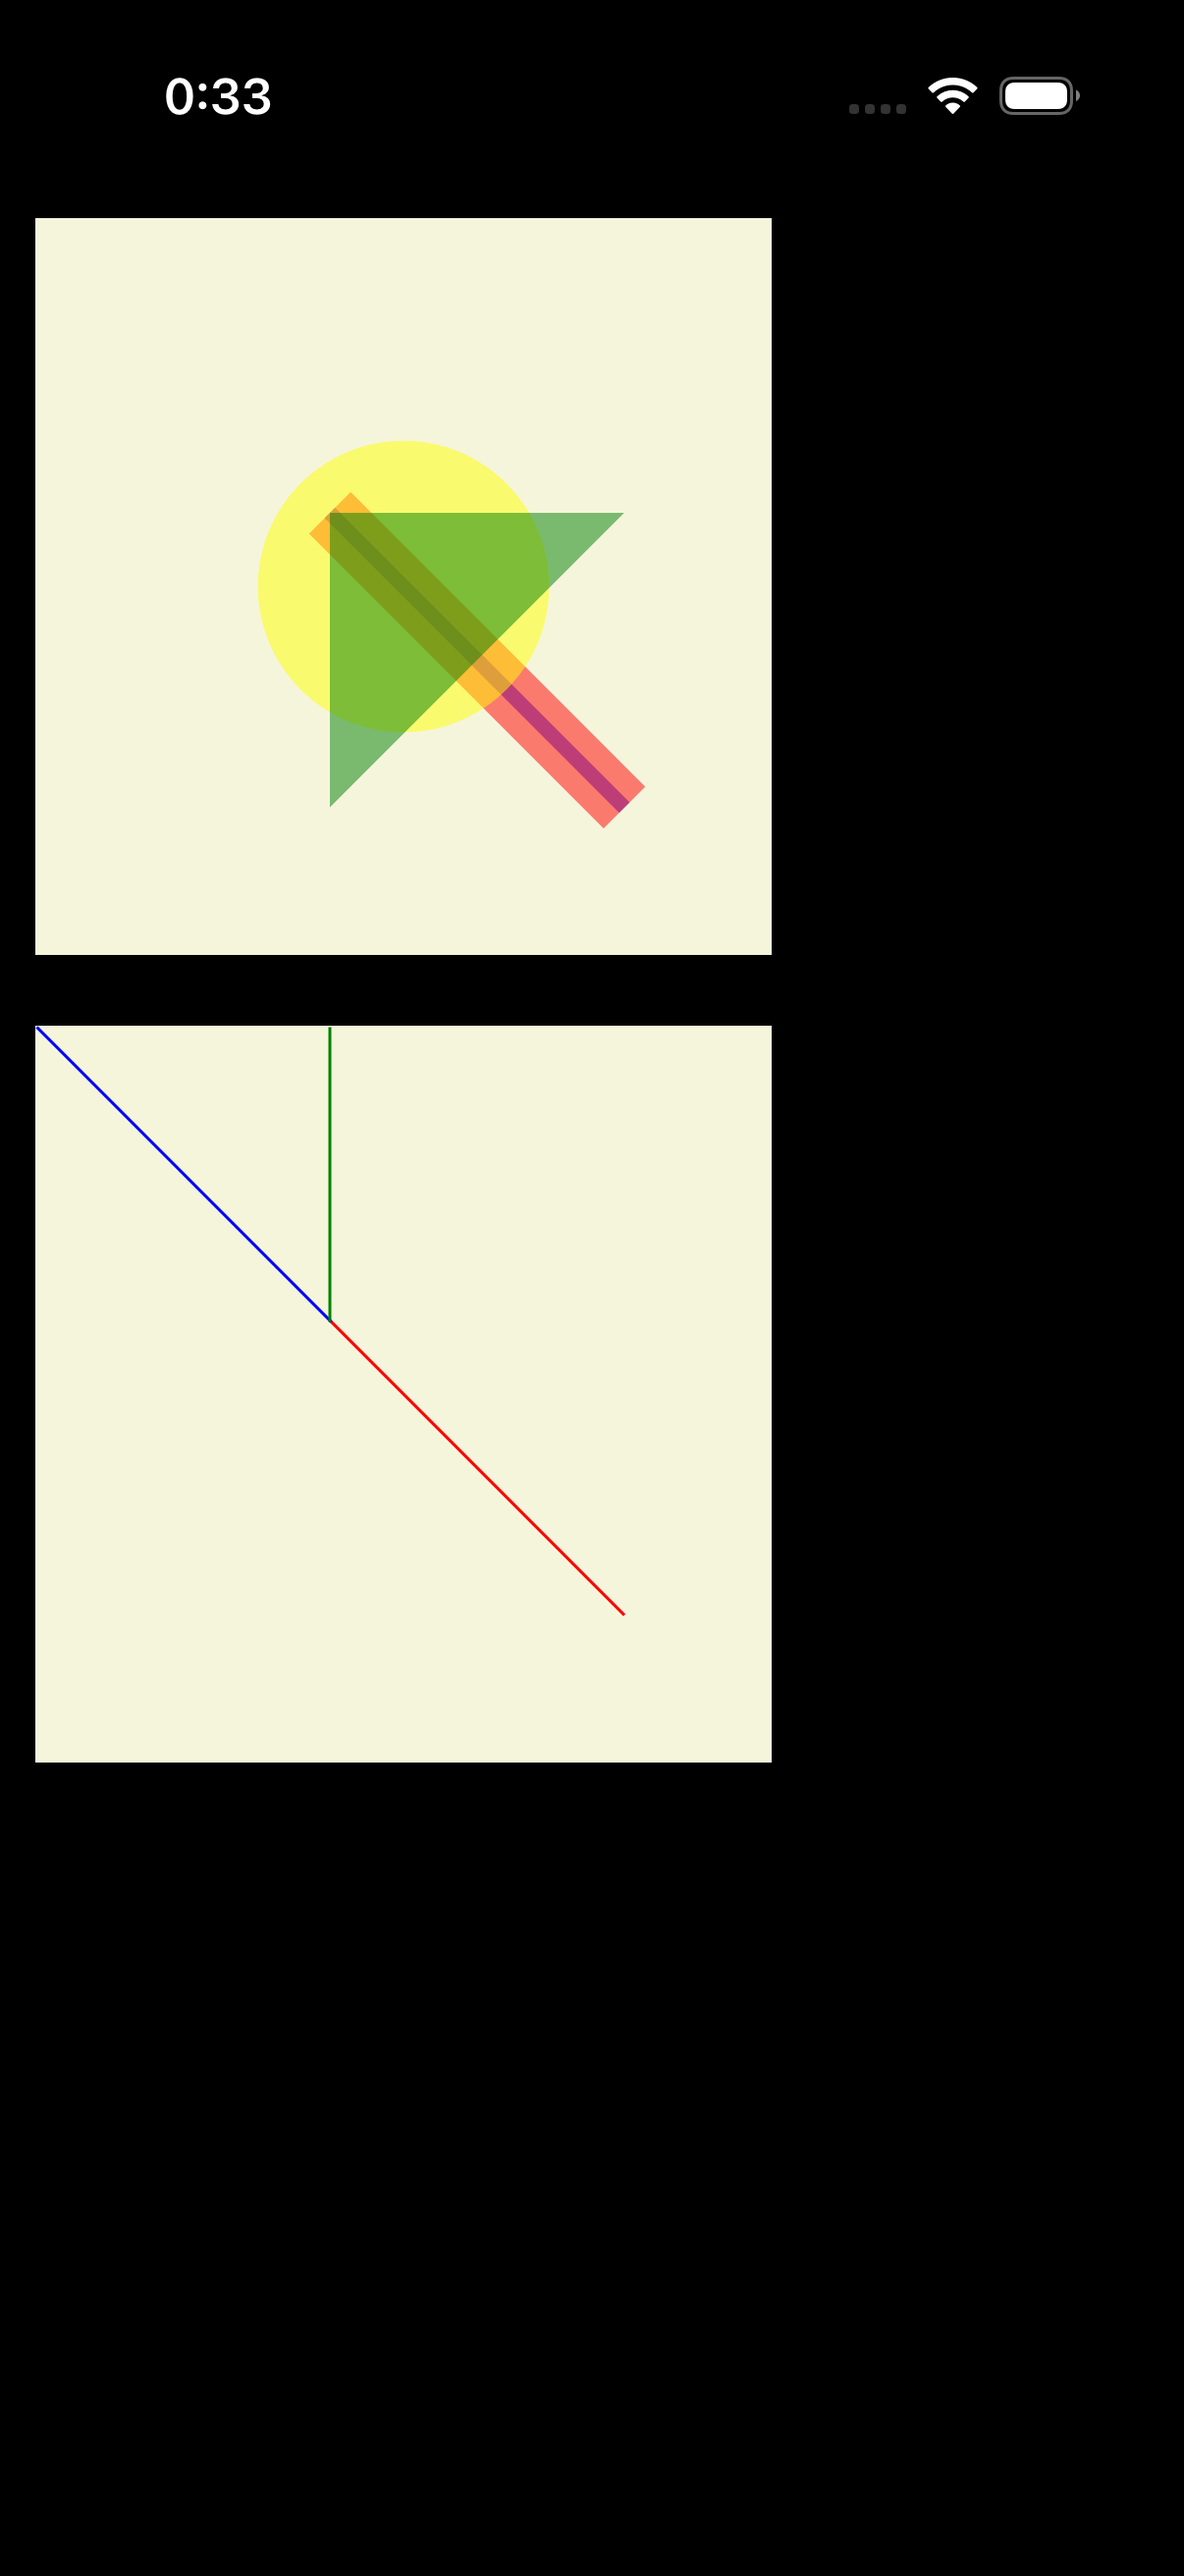
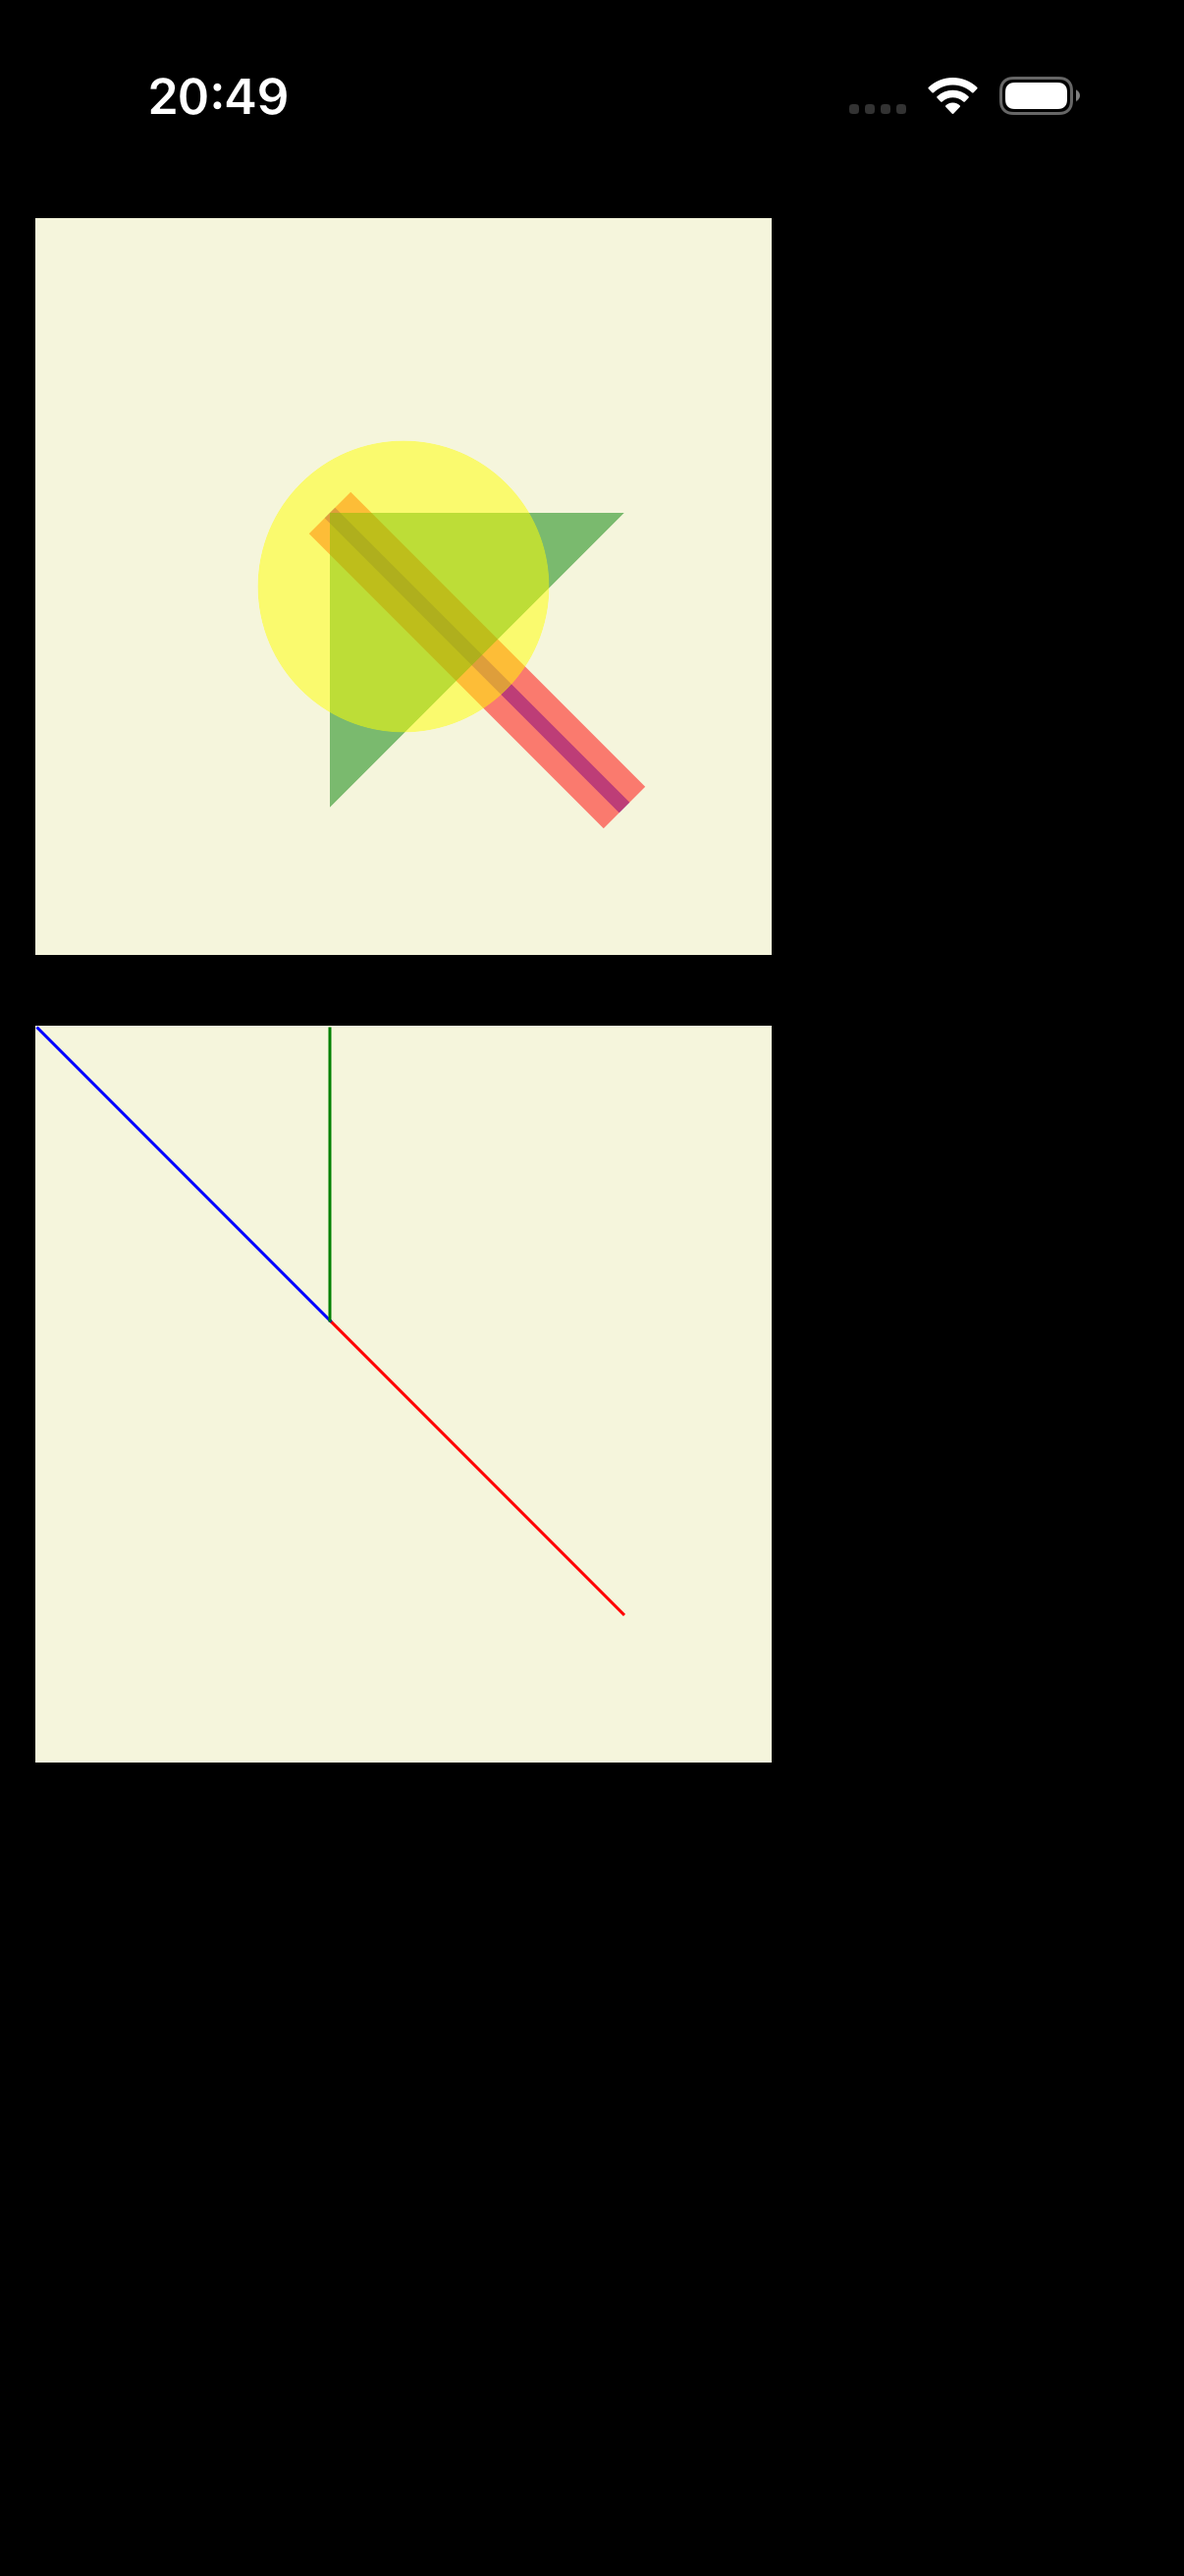
fix(composition_gallery): draw yellow circle ON TOP of green triangle (cpp yellow -> green)
The code-first page added the yellow Ellipse BEFORE the green Polygon, so the green triangle painted
on top of the yellow circle — but original MAUI's CompositionGallery.xaml draws the Polygon THEN the
yellow Path/EllipseGeometry (ellipse last = on top), which the shared XAML twin also does (xaml column
already green at 0.07%). With Opacity=0.5 the compositing is order-dependent, so the overlap read
green-dominant instead of yellow-dominant. Swapped the add order (z-order = add order) so the yellow
circle paints last -> cpp 1.23%->0.09% green. Both columns now green.

Changed region(s): [[0.2761, 0.1854, 0.4602, 0.3089], [0.1227, 0.0309, 0.2454, 0.0618]]

diff --git a/port/cpp/examples/gallery/pages/composition_gallery_page.hpp b/port/cpp/examples/gallery/pages/composition_gallery_page.hpp
@@ -103,20 +103,22 @@ namespace maui::samples
             thick_line_.set_opacity(0.5);
             grid_one_.add(thick_line_);
 
+            // Polygon (100,100 200,100 100,200) — green fill, opacity .5. Added BEFORE the circle: the C#
+            // CompositionGallery.xaml draws the Polygon THEN the yellow Path/EllipseGeometry, so the yellow
+            // circle paints on TOP of the green triangle (not the other way round).
+            triangle_.set_points({{100, 100}, {200, 100}, {100, 200}});
+            triangle_.set_fill(solid(maui::graphics::colors::green));
+            triangle_.set_opacity(0.5);
+            grid_one_.add(triangle_);
+
             // The yellow circle: a plain 100x100 ellipse, no explicit position (Grid-centers itself,
             // landing at 125,125 radius 50 — see header note on MAUI's actual render), yellow fill,
-            // opacity .5. Added BEFORE the triangle so the triangle paints on top, matching MAUI.
+            // opacity .5. Added LAST so it paints on top of the green triangle, matching MAUI's shape order.
             circle_.set_width_request(100);
             circle_.set_height_request(100);
             circle_.set_fill(solid(maui::graphics::colors::yellow));
             circle_.set_opacity(0.5);
             grid_one_.add(circle_);
-
-            // Polygon (100,100 200,100 100,200) — green fill, opacity .5, painted OVER the circle.
-            triangle_.set_points({{100, 100}, {200, 100}, {100, 200}});
-            triangle_.set_fill(solid(maui::graphics::colors::green));
-            triangle_.set_opacity(0.5);
-            grid_one_.add(triangle_);
 
             stack_.add(grid_one_);
 

diff --git a/port/cpp/docs/comparison/README.md b/port/cpp/docs/comparison/README.md
@@ -11,8 +11,8 @@ Real .NET MAUI (native-default) vs the C++ port vs the compile-time-XAML gallery
 
 | Classification | Sonnet 5 — C++ (C1/C3) | Sonnet 5 — C++ &amp; XAML (C2/C4) | Gemini — C++ | Pixel-Perfect Score — C++ (C1/C3) | Pixel-Perfect Score — C++ &amp; XAML (C2/C4) |
 | --- | --- | --- | --- | --- | --- |
-| 🟢 Match | 167 | 0 | 0 | 151 | 153 |
-| 🟡 Minor | 4 | 0 | 0 | 18 | 16 |
+| 🟢 Match | 167 | 0 | 0 | 152 | 153 |
+| 🟡 Minor | 4 | 0 | 0 | 17 | 16 |
 | 🔴 Major | 0 | 0 | 0 | 3 | 3 |
 | ⬛ Blank | 1 | 0 | 0 | 0 | 0 |
 | ⏳ Unreviewed | 0 | 172 | 172 | 0 | 0 |
@@ -873,9 +873,9 @@ _Not yet reviewed._
 
 _Not yet reviewed._
 
-#### 🟡 Pixel-Perfect Score — C++ (C1/C3)
+#### 🟢 Pixel-Perfect Score — C++ (C1/C3)
 
-Light: SSIM 0.9984, 1.23% pixels differ · Dark: SSIM 0.9984, 1.23% pixels differ
+Light: SSIM 0.9981, 0.09% pixels differ · Dark: SSIM 0.9981, 0.09% pixels differ
 
 #### 🟢 Pixel-Perfect Score — C++ &amp; XAML (C2/C4)
 
